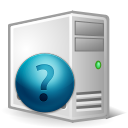
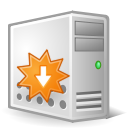
*Add : canvas+image rendering for dep graph. Looks quite good isn't it? I love html5 :) *Fix : missing pictures, and fix unreachable, was not good enought.

Changed region(s): [[0.0938, 0.375, 0.5938, 0.9062]]

diff --git a/shinken/webui/plugins/depgraph/htdocs/js/eltdeps.js b/shinken/webui/plugins/depgraph/htdocs/js/eltdeps.js
@@ -26,6 +26,33 @@ var Log = {
 };
 
 
+
+function dump(arr, level) {
+    var dumped_text = "";
+    if(!level) level = 0;
+    
+    //The padding given at the beginning of the line.
+    var level_padding = "";
+    for(var j=0;j<level+1;j++) level_padding += "    ";
+    
+    if(typeof(arr) == 'object') { //Array/Hashes/Objects 
+	for(var item in arr) {
+	    var value = arr[item];
+	    
+	    if(typeof(value) == 'object') { //If it is an array,
+		dumped_text += level_padding + "'" + item + "' ...\n";
+		dumped_text += dump(value,level+1);
+	    } else {
+		dumped_text += level_padding + "'" + item + "' => \"" + value + "\"\n";
+	    }
+	}
+    } else { //Stings/Chars/Numbers etc.
+	dumped_text = "===>"+arr+"<===("+typeof(arr)+")";
+    }
+    return dumped_text;
+}
+
+
 window.onload = function init(){
     //init data
     //If a node in this JSON structure
@@ -33,6 +60,38 @@ window.onload = function init(){
     //defined it will override the "type" and
     //"dim" parameters globally defined in the
     //RGraph constructor.
+
+
+    //init nodetypes
+    //Here we implement custom node rendering types for the RGraph
+    //Using this feature requires some javascript and canvas experience.
+    $jit.RGraph.Plot.NodeTypes.implement({
+	    'custom': {
+		'render': function(node, canvas) {
+		    /*First we need to know where the node is, so we can draw 
+		     in the correct place for the GLOBAL canvas*/
+		    var pos = node.getPos().getc();
+		    var size = 24;
+
+		    var ctx = canvas.getCtx();
+		    img = new Image();
+		    
+		    /* We can have some missing data, so just add dummy info */
+		    if (typeof(node.data.img_src) == 'undefined'){
+			img.src = '/static/images/state_ok.png';
+		    }else{
+			img.src = node.data.img_src; //"/static/images/sets/disk/state_critical.png";
+			size = size * (node.data.business_impact - 1);
+		    }
+		    /* We scale the image. Thanks html5 canvas.*/
+		    img.width = size;
+		    img.height = size;
+		    /*Ok, we draw the image, and we set it in the middle ofthe node :)*/
+		    ctx.drawImage(img, pos.x-size/2, pos.y-size/2, img.width, img.height);
+		}
+	    }
+	    });
+
 
     //init RGraph
     var rgraph = new $jit.RGraph({
@@ -63,6 +122,7 @@ window.onload = function init(){
 	    Node: {
 		color: 'green',
 		'overridable': true,
+		type : 'custom',
 	    },
 	    Edge: {
 		color: 'SeaGreen',

diff --git a/shinken/modules/webui_broker/helper.py b/shinken/modules/webui_broker/helper.py
@@ -213,21 +213,22 @@ class Helper(object):
     # But as a python dict
     def get_dep_graph_struct(self, elt, levels=3):
         t = elt.__class__.my_type
+        # We set the values for webui/plugins/depgraph/htdocs/js/eltdeps.js
+        # so a node with important data for rendering
+        # type = custom, business_impact and img_src.
         d = {'id' : elt.get_dbg_name(), 'name' : elt.get_dbg_name(),
-             'data' : {'$dim': max(elt.business_impact*elt.business_impact / 2, 5)},
+             'data' : {'$type' : 'custom',
+                       'business_impact' : elt.business_impact,
+                       'img_src' : self.get_icon_state(elt)
+                       },
              'adjacencies' : []
              }
-        # Service got a 'star' type :)
-        if t == 'service':
-            d['data']["$type"] = "star"
-            d['data']["$color"] = {0 : 'green', 1 : 'orange', 2 : 'red', 3 : 'gray'}.get(elt.state_id, 'red')
-        else: #host
-            d['data']["$color"] = {0 : 'green', 1 : 'red', 2 : '#CC6600', 3 : 'gray'}.get(elt.state_id, 'red')
 
         # Now put in adj our parents
         for p in elt.parent_dependencies:
             pd = {'nodeTo' : p.get_dbg_name(),
                   'data' : {"$type":"line", "$direction": [elt.get_dbg_name(), p.get_dbg_name()]}}
+
             # Naive way of looking at impact
             if elt.state_id != 0 and p.state_id != 0:
                 pd['data']["$color"] = 'Tomato'
